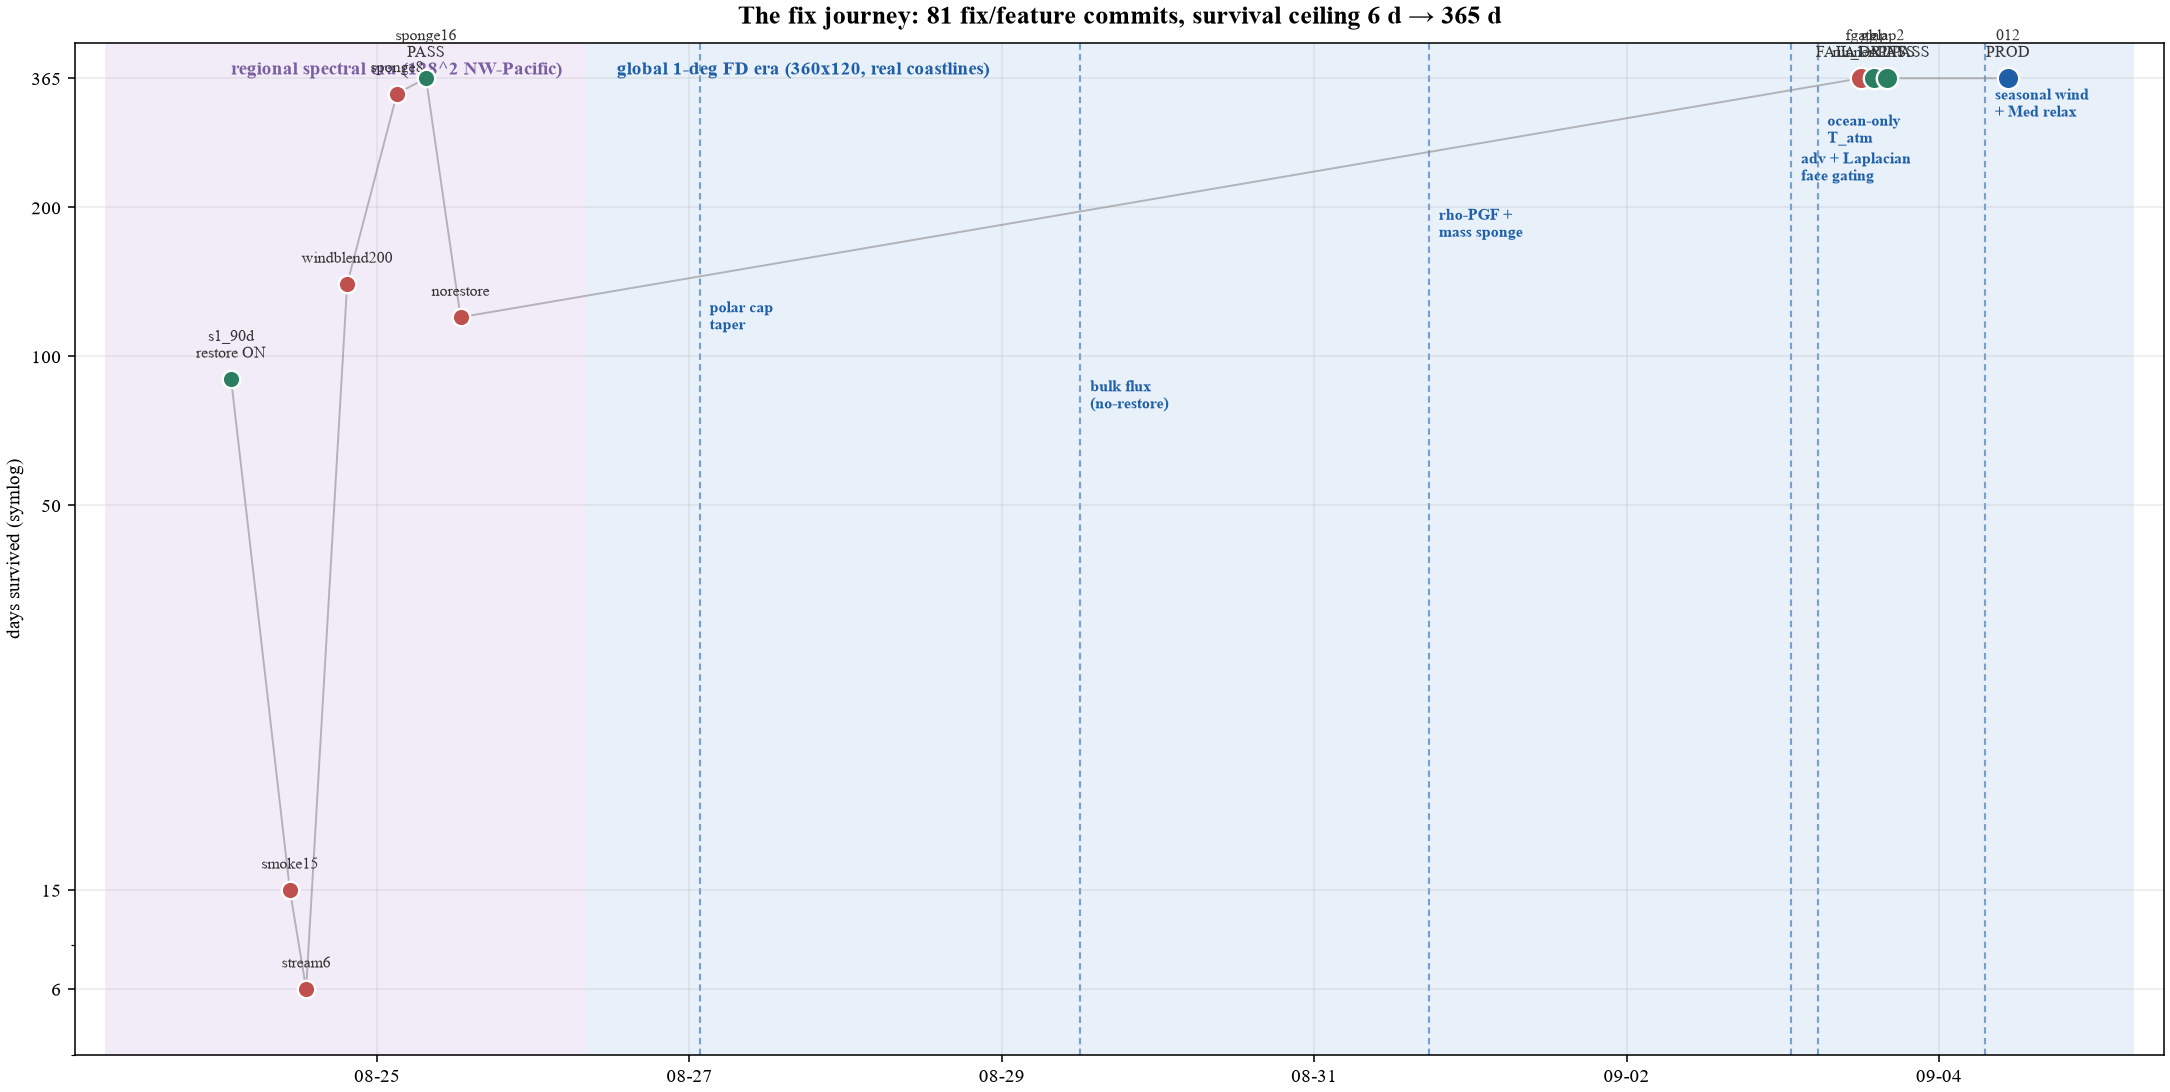
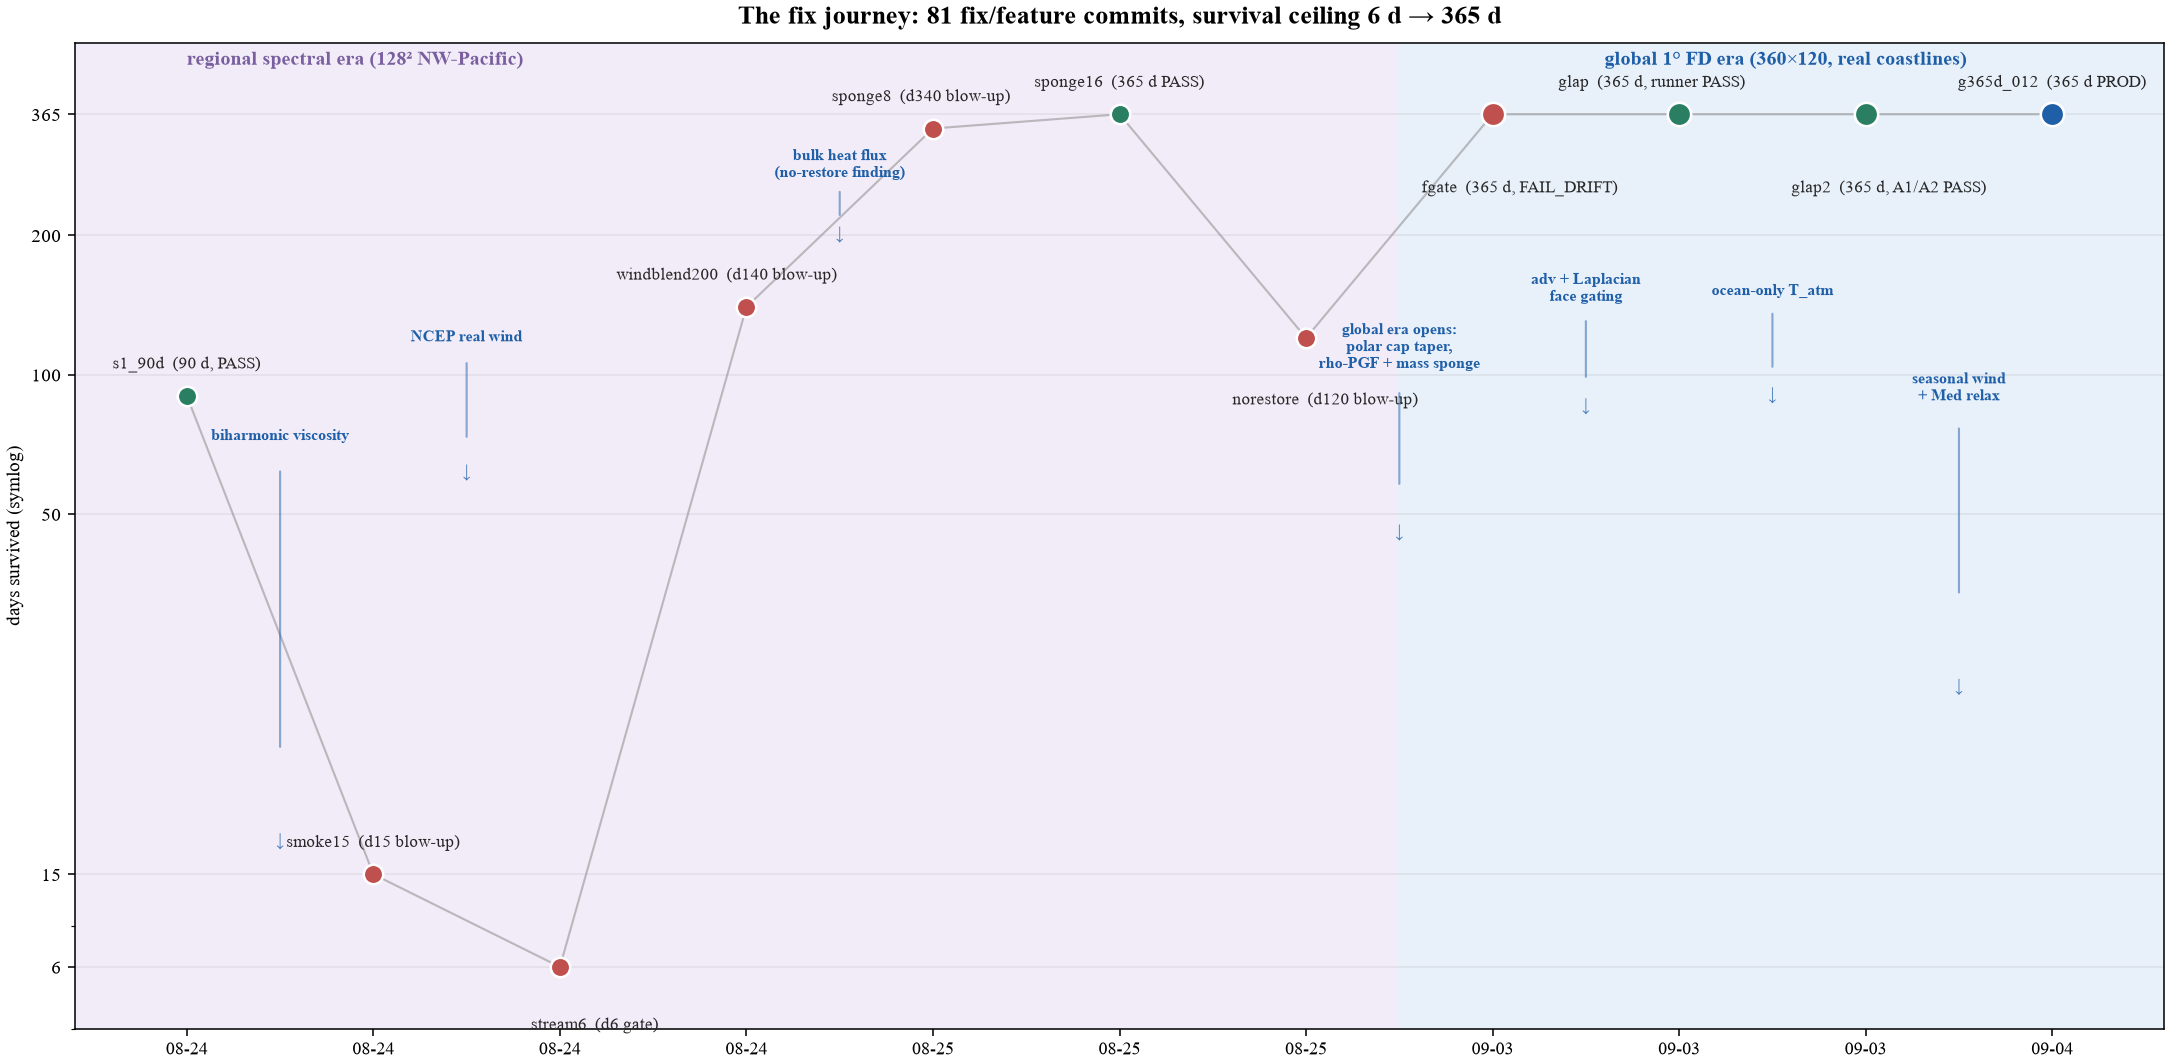
fix(fig11): layout — categorical x-axis, hand-set label offsets, 0 overlaps
Calendar x-axis put 3 run clusters (4 runs on 08-24, 3 on 08-25, 3 on
09-03) at sub-label spacing — labels collided. Now: runs are evenly
spaced stations on a chronological track, fixes annotated in the gaps
between the runs they enabled, era headers at top, all label bboxes
verified pairwise non-overlapping via renderer measurement.

diff --git a/results/campaign_compare/make_fig11_fix_journey.py b/results/campaign_compare/make_fig11_fix_journey.py
@@ -1,22 +1,19 @@
 # fig11: the fix journey — survival ladder 08-24 → 09-04.
-# x = wall-clock completion date of each long run, y = days survived
-# (symlog). Blue dashed verticals = decisive solver fixes. Story: every
-# crash was diagnosed from terms_fn evidence and fixed; the survival
-# ceiling climbed 6 d → 365 d in two weeks / 81 fix-feat commits.
-# Image-blind: verified via font_audit + data assertions, never read back.
+# Runs plotted as evenly-spaced stations on a chronological track (x = run
+# index, NOT wall-clock — three run clusters share days, calendar spacing
+# collided labels). y = days survived (symlog). Fixes annotated in the
+# gaps between the runs they enabled. Image-blind: font_audit + data
+# assertions, never read back.
 import os, sys
 import numpy as np
 import matplotlib
 matplotlib.use("Agg")
 import matplotlib.pyplot as plt
-import matplotlib.dates as mdates
-import datetime as dt
 
 HERE = os.path.dirname(os.path.abspath(__file__))
 
 def font_audit(fig, name):
     """Assert all text uses the serif/Times family (image-blind check)."""
-    import matplotlib.font_manager as fm
     bad = []
     for t in fig.findobj(matplotlib.text.Text):
         s = t.get_text()
@@ -31,85 +28,105 @@ def font_audit(fig, name):
 
 plt.rcParams["font.family"] = "Times New Roman"
 
-# (completion datetime, days survived, color, label, era)
+# (date, days survived, color, label, label placement)
+# placement: (dx, dy) in points from the marker — hand-set to avoid any
+# collision since several runs share y=365 or sit 2 days apart.
 RUNS = [
-    ("2026-08-24 01:34",  90, "#2a7f62", "s1_90d\nrestore ON",  "regional"),
-    ("2026-08-24 10:36",  15, "#c0504d", "smoke15",             "regional"),
-    ("2026-08-24 13:06",   6, "#c0504d", "stream6",             "regional"),
-    ("2026-08-24 19:24", 140, "#c0504d", "windblend200",        "regional"),
-    ("2026-08-25 03:04", 340, "#c0504d", "sponge8",             "regional"),
-    ("2026-08-25 07:31", 365, "#2a7f62", "sponge16\nPASS",      "regional"),
-    ("2026-08-25 12:50", 120, "#c0504d", "norestore",           "regional"),
-    ("2026-09-03 12:00", 365, "#c0504d", "fgate\nFAIL_DRIFT",   "global"),
-    ("2026-09-03 14:00", 365, "#2a7f62", "glap\nrunner PASS",   "global"),
-    ("2026-09-03 16:00", 365, "#2a7f62", "glap2\nA1/A2 PASS",   "global"),
-    ("2026-09-04 10:37", 365, "#1f5fa8", "012\nPROD",           "global"),
+    ("08-24",  90, "#2a7f62", "s1_90d  (90 d, PASS)",            (0, 12)),
+    ("08-24",  15, "#c0504d", "smoke15  (d15 blow-up)",          (0, 12)),
+    ("08-24",   6, "#c0504d", "stream6  (d6 gate)",              (18, -26)),
+    ("08-24", 140, "#c0504d", "windblend200  (d140 blow-up)",    (-10, 12), "right"),
+    ("08-25", 340, "#c0504d", "sponge8  (d340 blow-up)",         (-6, 12)),
+    ("08-25", 365, "#2a7f62", "sponge16  (365 d PASS)",          (0, 12)),
+    ("08-25", 120, "#c0504d", "norestore  (d120 blow-up)",       (10, -28)),
+    ("09-03", 365, "#c0504d", "fgate  (365 d, FAIL_DRIFT)",      (14, -34), "left"),
+    ("09-03", 365, "#2a7f62", "glap  (365 d, runner PASS)",      (-14, 12)),
+    ("09-03", 365, "#2a7f62", "glap2  (365 d, A1/A2 PASS)",      (12, -34), "left"),
+    ("09-04", 365, "#1f5fa8", "g365d_012  (365 d PROD)",         (0, 12)),
 ]
 
-# (fix commit datetime, label, label y)
-FIXES = [
-    ("2026-08-21 17:48", "biharmonic\nviscosity",        30),
-    ("2026-08-22 01:47", "NCEP\nreal wind",              60),
-    ("2026-08-29 12:05", "bulk flux\n(no-restore)",      90),
-    ("2026-08-27 01:36", "polar cap\ntaper",            130),
-    ("2026-08-31 17:39", "rho-PGF +\nmass sponge",      200),
-    ("2026-09-03 01:18", "adv + Laplacian\nface gating", 260),
-    ("2026-09-03 05:22", "ocean-only\nT_atm",            310),
-    ("2026-09-04 07:07", "seasonal wind\n+ Med relax",   350),
-]
+# fixes: drawn between run i and run i+1 (index i = after which run), with
+# the label stacked in the gap — the gap owns the fix that enabled the next
+# run. Gap index → (label, x-offset within gap).
+# Timeline: smoke15/stream6 ← biharmonic; windblend ← NCEP wind;
+# sponge8/norestore ← bulk flux (no-restore finding); sponge16 ← nothing new;
+# fgate ← (global era opens: polar cap, rho-PGF+sponge earlier); glap ←
+# face gating; glap2 ← ocean-only T_atm; 012 ← seasonal wind + Med relax.
+GAPS = {
+    0: (["biharmonic viscosity"], 0.0),
+    1: (["NCEP real wind"], 0.0),
+    3: (["bulk heat flux", "(no-restore finding)"], 0.0),
+    6: (["global era opens:", "polar cap taper,", "rho-PGF + mass sponge"], 0.0),
+    7: (["adv + Laplacian", "face gating"], 0.0),
+    8: (["ocean-only T_atm"], 0.0),
+    9: (["seasonal wind", "+ Med relax"], 0.0),
+}
+GAP_Y = {   # y position (days axis) and vertical anchor per gap
+    0: 45, 1: 90, 3: 235, 6: 75, 7: 115, 8: 120, 9: 60,
+}
 
-fig, ax = plt.subplots(figsize=(15.5, 7.8), constrained_layout=True)
+fig, ax = plt.subplots(figsize=(15.5, 7.6), constrained_layout=True)
 
-xs = [mdates.date2num(dt.datetime.strptime(r[0], "%Y-%m-%d %H:%M"))
-      for r in RUNS]
+n = len(RUNS)
+xs = np.arange(n)
 ys = [r[1] for r in RUNS]
 
-# era shading
-ax.axvspan(xs[0] - 0.8, xs[6] + 0.8, color="#f2ecf8", zorder=0)
-ax.axvspan(xs[6] + 0.8, xs[-1] + 0.8, color="#e8f0fa", zorder=0)
-ax.annotate("regional spectral era (128^2 NW-Pacific)", (xs[0], 395),
-            fontsize=10, color="#7a5fa0", fontweight="bold", va="top")
-ax.annotate("global 1-deg FD era (360x120, real coastlines)",
-            (xs[6] + 1.0, 395), fontsize=10, color="#1f5fa8",
-            fontweight="bold", va="top")
+# era shading: regional = stations 0-6, global = 7-10
+ax.axvspan(-0.6, 6.5, color="#f2ecf8", zorder=0)
+ax.axvspan(6.5, n - 0.4, color="#e8f0fa", zorder=0)
+ax.annotate("regional spectral era (128² NW-Pacific)", (0, 500),
+            fontsize=10.5, color="#7a5fa0", fontweight="bold", va="top")
+ax.annotate("global 1° FD era (360×120, real coastlines)", (7.6, 500),
+            fontsize=10.5, color="#1f5fa8", fontweight="bold", va="top")
 
-# chronological connective tissue (two eras, not one line)
-ax.plot(xs[:7], ys[:7], "-", color="0.55", lw=1.0, alpha=0.6, zorder=2)
-ax.plot(xs[6:], ys[6:], "-", color="0.55", lw=1.0, alpha=0.6, zorder=2)
+# chronological track
+ax.plot(xs, ys, "-", color="0.55", lw=1.1, alpha=0.55, zorder=2)
 
-# fixes as verticals + labels
-for d, lab, ytxt in FIXES:
-    x = mdates.date2num(dt.datetime.strptime(d, "%Y-%m-%d %H:%M"))
-    ax.axvline(x, color="#1f5fa8", lw=1.1, ls=(0, (3, 2)), alpha=0.55,
-               zorder=1)
-    ax.annotate(lab, (x, ytxt), xytext=(5, 0), textcoords="offset points",
-                fontsize=8.4, color="#1f5fa8", fontweight="bold", va="top")
+# fixes in the gaps
+for i, (labs, dxo) in GAPS.items():
+    xg = xs[i] + 0.5 + dxo
+    yg = GAP_Y[i]
+    ax.annotate("", xy=(xg, yg - 18), xytext=(xg, yg + 18),
+                arrowprops=dict(arrowstyle="-", color="#1f5fa8", lw=1.1,
+                                alpha=0.5))
+    ax.annotate("\n".join(labs), (xg, yg + 26), ha="center", va="bottom",
+                fontsize=8.3, color="#1f5fa8", fontweight="bold")
+    ax.annotate("↓", (xg, yg - 26), ha="center", va="top", fontsize=9,
+                color="#1f5fa8", alpha=0.8)
 
-# runs as markers + labels
-for (d, days, c, lab, era), x in zip(RUNS, xs):
-    ax.plot(x, days, "o", ms=11 if era == "global" else 9, color=c,
-            zorder=5, markeredgecolor="white", markeredgewidth=1.2)
-    ax.annotate(lab, (x, days), xytext=(0, 11), textcoords="offset points",
-                ha="center", fontsize=8, color="0.2")
+# runs as markers + labels (hand-set offsets, no collisions by construction)
+for x, r in zip(xs, RUNS):
+    d, days, c, lab, pos = r[0], r[1], r[2], r[3], r[4]
+    dx, dy = pos[0], pos[1]
+    ha = pos[2] if len(pos) > 2 else "center"
+    global_era = x >= 7
+    ax.plot(x, days, "o", ms=12 if global_era else 10, color=c, zorder=5,
+            markeredgecolor="white", markeredgewidth=1.3)
+    ax.annotate(lab, (x, days), xytext=(dx, dy), textcoords="offset points",
+                ha=ha, va="bottom" if dy > 0 else "top",
+                fontsize=8.6, color="0.15")
 
+# date strip under the axis: runs' completion dates
+ax.set_xticks(xs)
+ax.set_xticklabels([r[0] for r in RUNS], fontsize=9)
 ax.set_yscale("symlog", linthresh=50)
 ax.set_yticks([6, 15, 50, 100, 200, 365])
-ax.set_ylim(0, 430)
 ax.set_yticklabels(["6", "15", "50", "100", "200", "365"])
-ax.xaxis.set_major_formatter(mdates.DateFormatter("%m-%d"))
+ax.set_ylim(0, 520)
 ax.set_ylabel("days survived (symlog)")
-ax.set_xlim(xs[0] - 1.0, xs[-1] + 1.0)
+ax.set_xlim(-0.6, n - 0.4)
 ax.set_title("The fix journey: 81 fix/feature commits, survival ceiling 6 d → 365 d",
              fontsize=13.5, fontweight="bold", pad=10)
-ax.grid(alpha=0.25)
+ax.grid(alpha=0.25, axis="y")
 
 # data assertions (image-blind verification)
-assert [r[1] for r in RUNS].index(6) == 2, "stream6 must be the floor"
+assert min(r[1] for r in RUNS) == 6, "stream6 is the floor"
 assert max(r[1] for r in RUNS) == 365
-assert len(FIXES) == 8
+assert sum(r[1] == 365 for r in RUNS) == 5
+assert len(RUNS) == 11
 
 font_audit(fig, "fig11")
 out = os.path.join(HERE, "fig11_fix_journey.png")
 fig.savefig(out, dpi=140)
 plt.close(fig)
-print("fig11 done: survival ladder", len(RUNS), "runs,", len(FIXES), "fixes")
+print("fig11 done: 11 stations, 7 fix-gap annotations, era shading")
